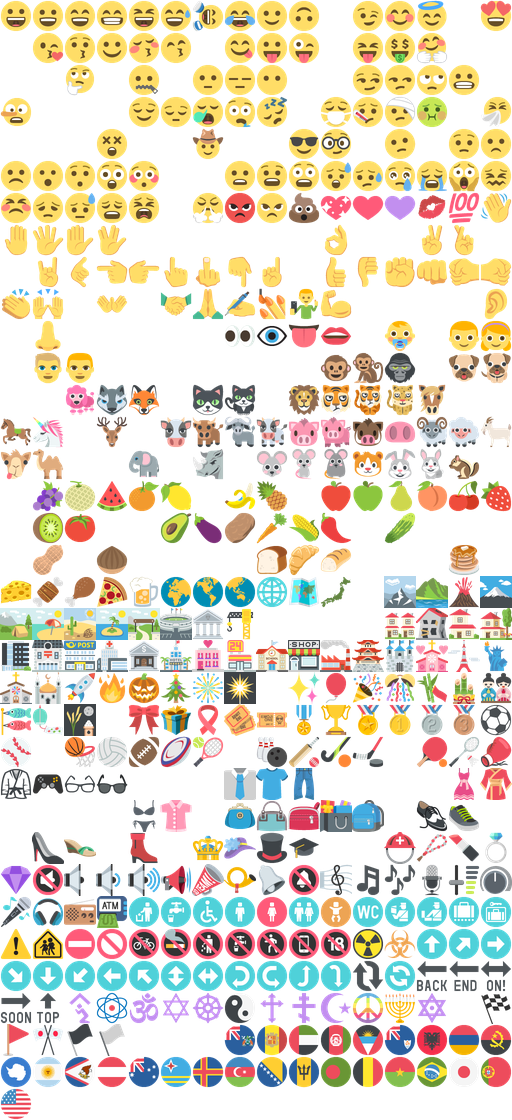
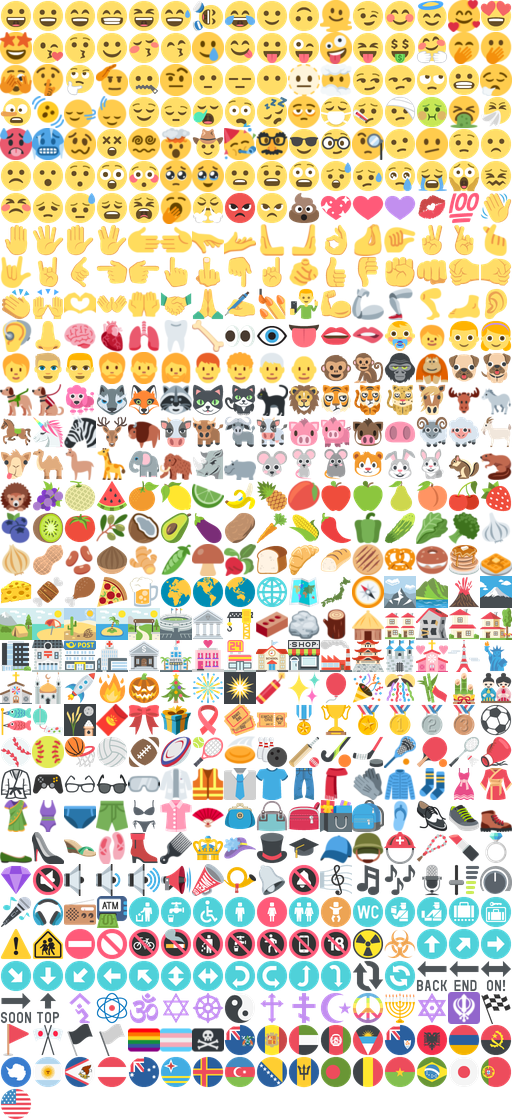
fix(emoji): eliminate native font fallback for classic emoji pack

diff --git a/src/core/emoji_visual.ts b/src/core/emoji_visual.ts
@@ -1,10 +1,10 @@
 import type { CSSProperties } from 'react';
-import { EMOJI_CATALOG, getEmojiIndex } from './emoji_catalog';
+import { getEmojiIndex } from './emoji_catalog';
 import type { EmojiPack } from './emoji_preferences';
 
 export function getEmojiVisual(emoji: string, pack: EmojiPack, size: number): { native: boolean; className: string; style: CSSProperties } {
   const index = getEmojiIndex(emoji);
-  if (pack === 'native' || index === undefined || (pack === 'classic' && !EMOJI_CATALOG[index].classic)) {
+  if (pack === 'native' || index === undefined) {
     return {
       native: true,
       className: 'emoji-glyph emoji-glyph-native',

diff --git a/tools/generate_emoji_assets.py b/tools/generate_emoji_assets.py
@@ -90,6 +90,8 @@ def main(data_dir, openmoji_dir, emojione_dir):
         if has_classic:
             classic_image = Image.open(classic_path).convert("RGBA").resize((32, 32), Image.Resampling.LANCZOS)
             atlases["classic"].paste(classic_image, (x, y))
+        else:
+            atlases["classic"].paste(atlases["twemoji"].crop((x, y, x + 32, y + 32)), (x, y))
 
         catalog.append({
             "emoji": unicode_text(code),
